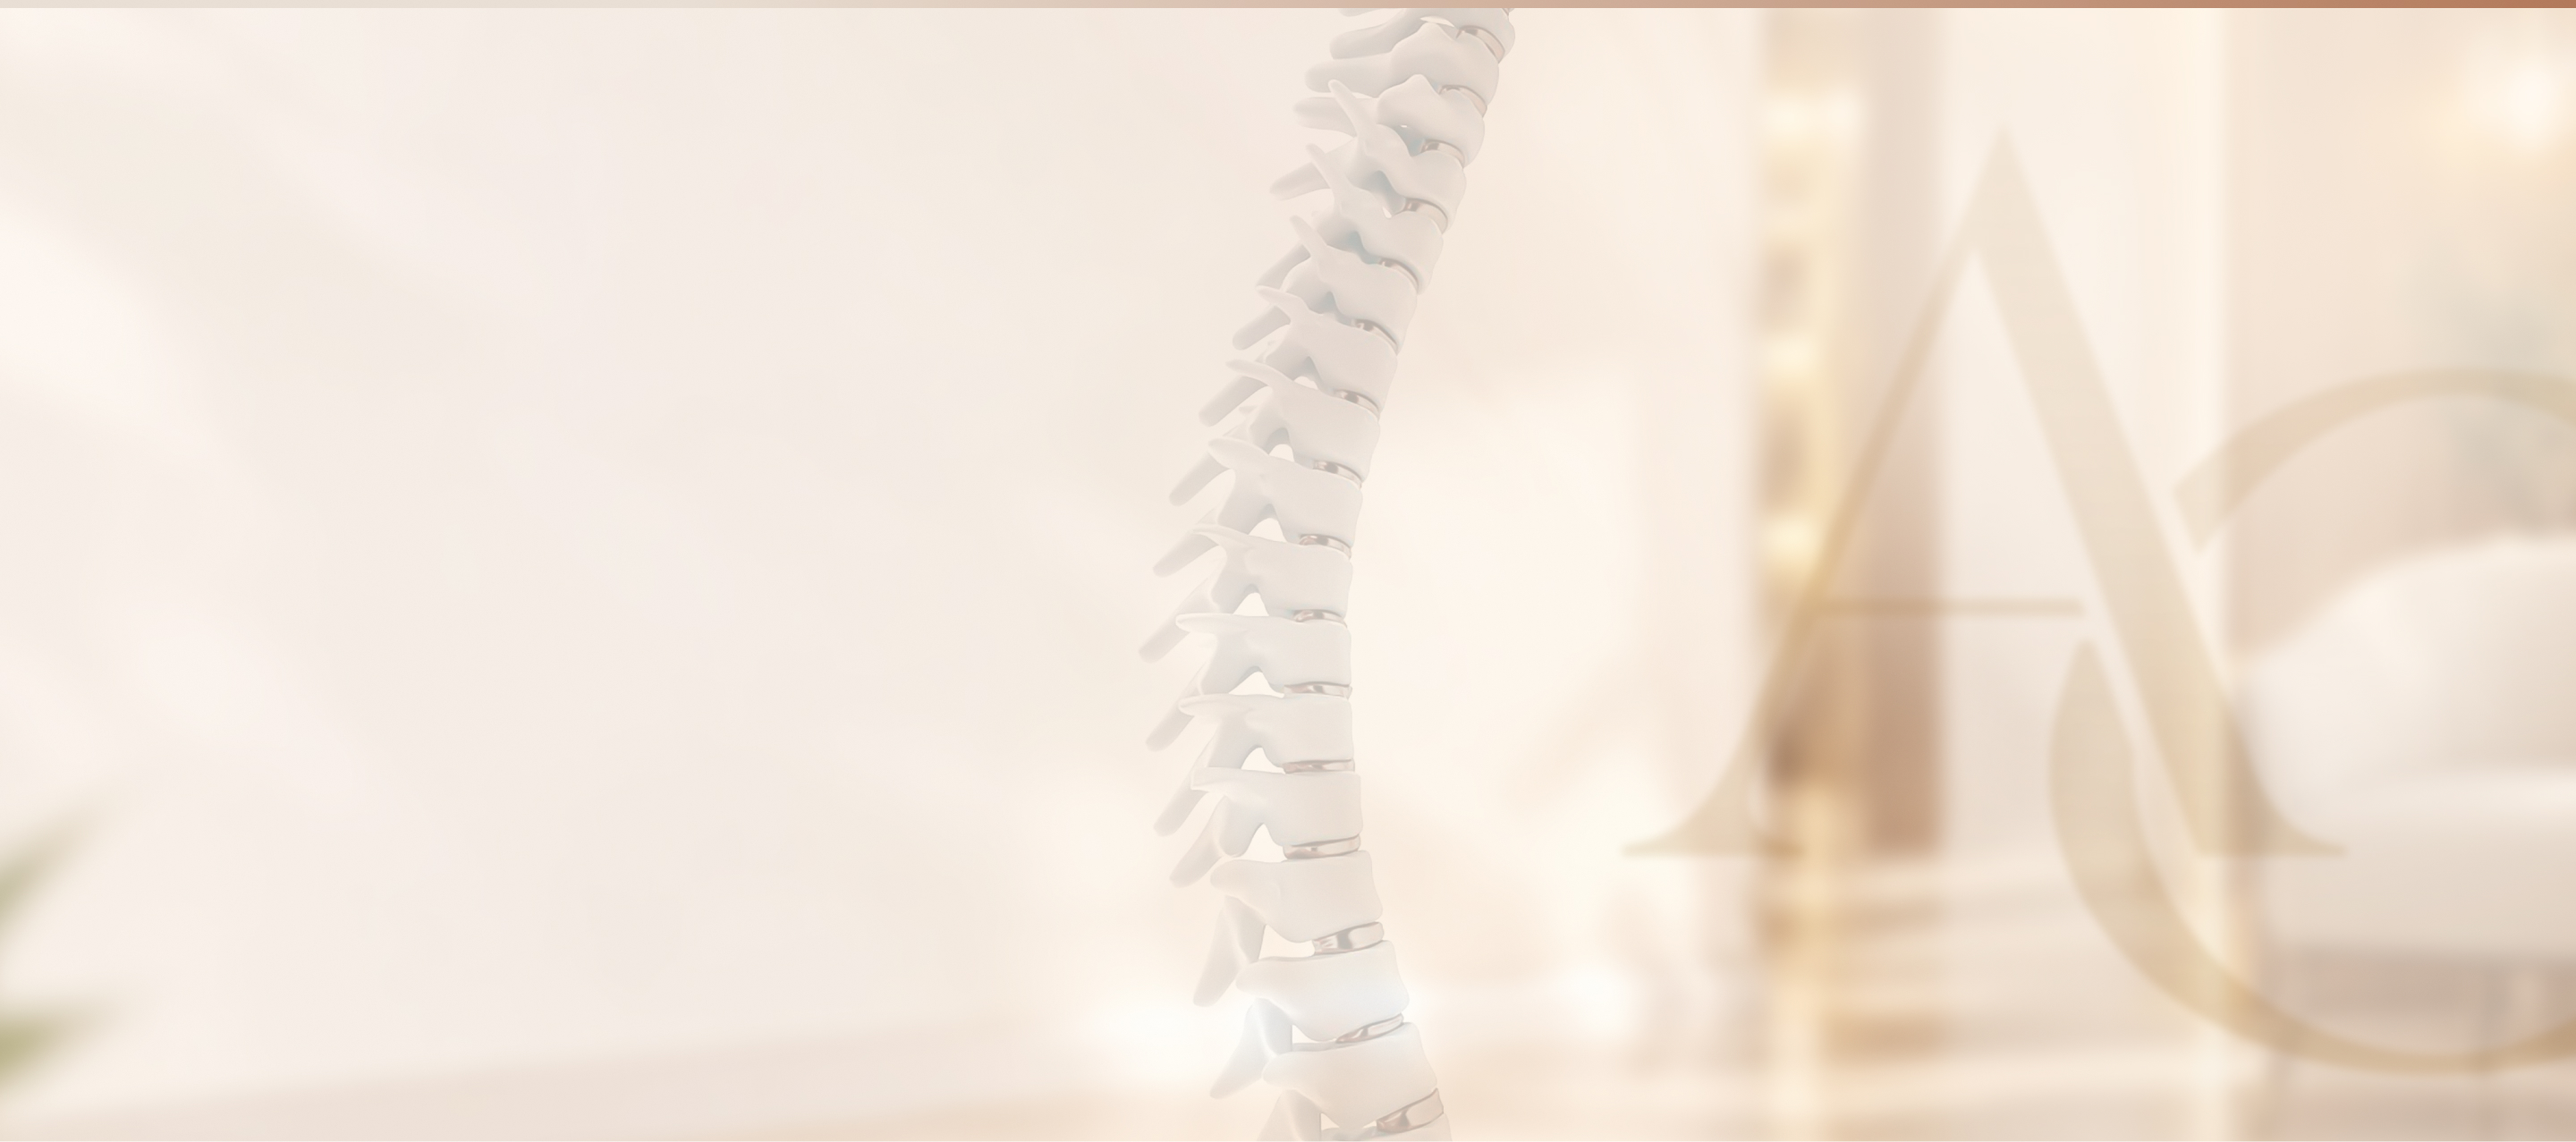
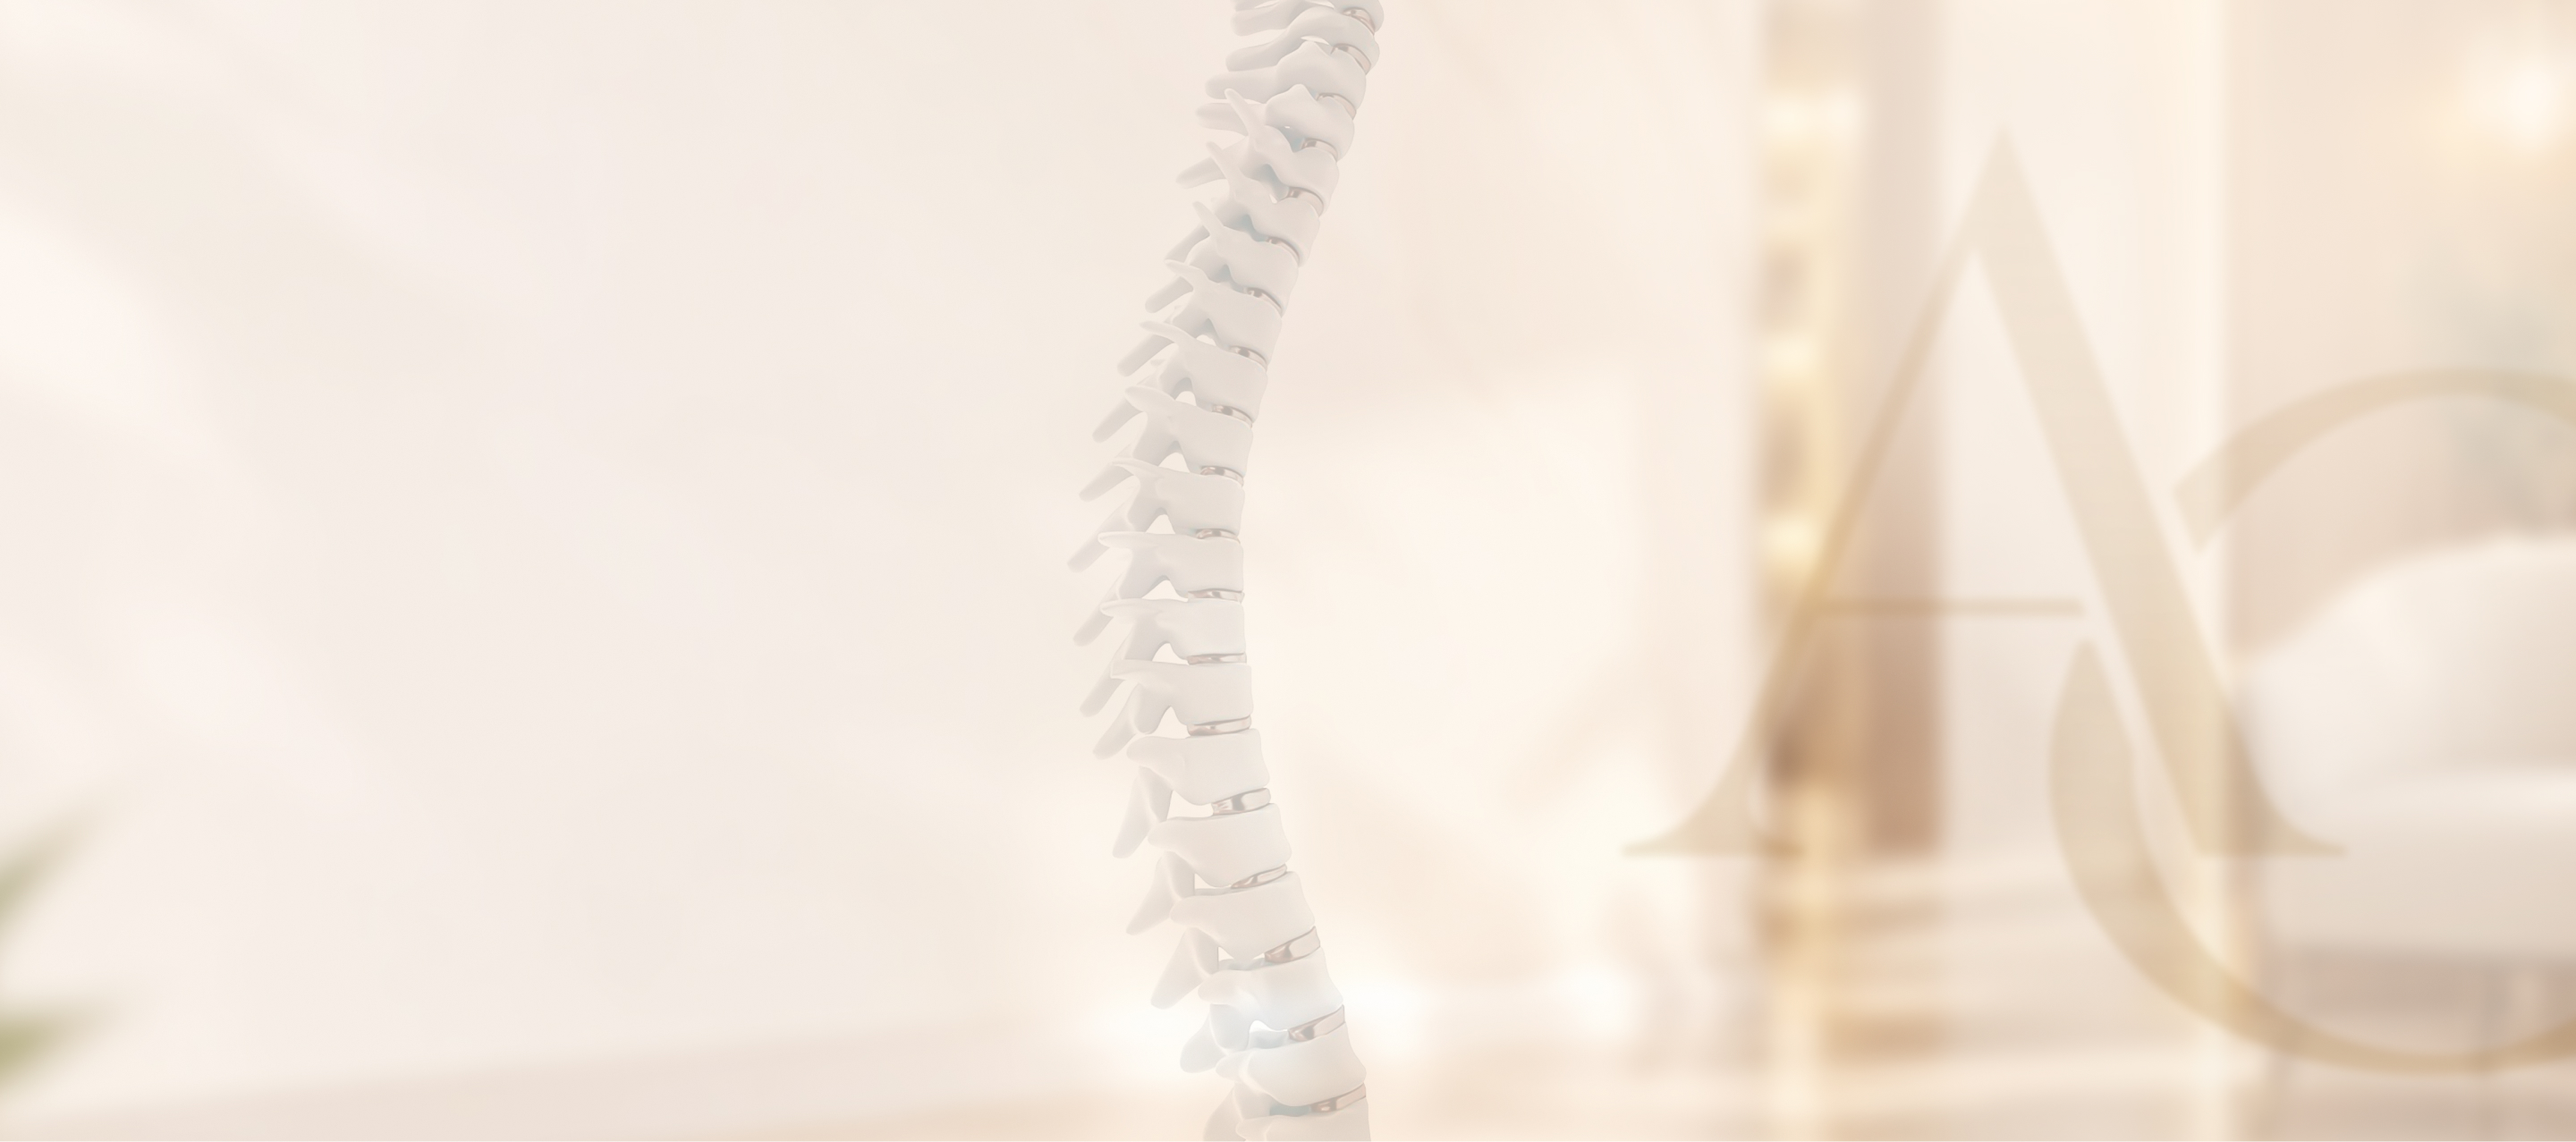
style: novo fundo do hero e gradiente da faixa do topo
- bg-hero.jpg atualizado com a versão nova de bg.jpg
- Faixa do topo: linear de #E9DFD4 a #A55F3B

diff --git a/style.css b/style.css
@@ -119,7 +119,7 @@ body::-webkit-scrollbar-thumb:hover {
 /* ===== TOP BAR ===== */
 .top-bar {
   height: 6px;
-  background: linear-gradient(to right, #D6B06A 0%, #B05E43 50%, #A67C3A 100%);
+  background: linear-gradient(to right, #E9DFD4 0%, #A55F3B 100%);
   width: 100%;
 }
 
